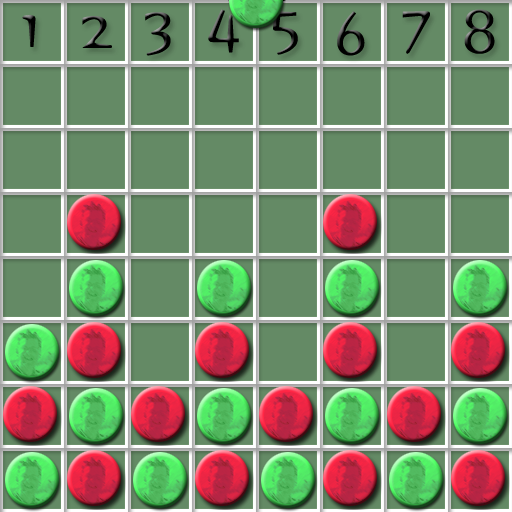
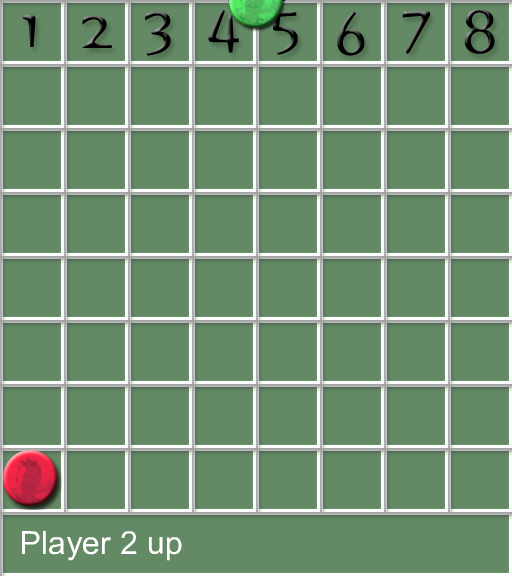
New load and draw

diff --git a/Commands/Bot_c4.js b/Commands/Bot_c4.js
@@ -8,6 +8,10 @@ var jimp = require('jimp');
 
 var obj = null;
 
+//Discord Client, for notifications.
+var disClient = null;
+var tstatus = '';
+  
 module.exports = {
     Bot_c4 : function(msg,args) {
         if (obj === null) obj =  new Connect4(msg,args);
@@ -15,6 +19,9 @@ module.exports = {
         },
     Info : function() {
         return "Connect 4 game";
+    },
+    Init : function(dClient) {
+        disClient =  dClient;
     }
     };
     
@@ -29,30 +36,43 @@ class Connect4 {
         this.args = args;
         this.board = null;
         this.ipath = "./Commands/Images/";
-        this.images = ['red.png', 'green.png', 'c4box.png', 'top.png'];
+        this.images = ['red.png', 'green.png', 'c4box.png', 'top.png', 'bot.png'];
         this.playing = false;
         this.gameOver = false;
         this.helpString = "Type: ```!c4 help``` for help";
         this.players = ['None','',''];
         this.player = 0;
+        this.loaded = false;
+        this.LoadResources();
         }
         
     MessageIn(msg,args) {
+        
+        if (!this.loaded) {
+            console.log('not ready');
+            return;
+        }
+        console.log('Players:' + this.players);
+        console.log('Player:' + this.player);
+        console.log('Playing:' + this.playing);
+        console.log('Finished:' + this.gameOver);
+                
+        
+        
         if (args.length === 0) {
             msg.reply(this.helpString);
             return;
         }
         var cmd = args[0].toLowerCase();
-        
         //End always works
         if (cmd === 'end') {
                 obj = null;
                 return;
             }
-            
          if (cmd === 'show') {
+                tstatus = this.GetNextUp();
+
                 this.DrawBoard();
-                ShowNextUp(msg);
                 return;
             }
         if (this.gameOver) {
@@ -60,6 +80,8 @@ class Connect4 {
             msg.reply("Game is over.  !C4 end to quit");
             return;
         }
+        
+  
         if (this.playing) {
             try {
                 var col = parseInt(cmd);
@@ -71,8 +93,16 @@ class Connect4 {
                 if ((col > 0) && (col <= 8)) {
                     console.log("drop: " + col);
                     this.DropToken(col-1);
-                    this.DrawBoard(msg);
-                    this.ShowNextUp(msg);
+                    if (this.GetWinner()) {
+                        console.log("Winner");
+                        this.gameOver = true;
+                        tstatus = this.GetNextUp();
+                        this.DrawBoard();
+                        return;
+                    }
+                    tstatus = this.GetNextUp();
+                    this.DrawBoard();
+                    //msg.channel.send(this.GetNextUp());
                 }
                 return;
             } catch (err) {
@@ -91,10 +121,20 @@ class Connect4 {
             return;
         }
     }
-    ShowNextUp(msg) {
+    
+    GetNextUp() {
         console.log("Show Next Up:" +this.players[this.player]);
-        if (this.players[this.player] !== '') {
-            msg.channel.send(this.players[this.player] + " up!");
+        try {
+            if (this.gameOver) {
+                return this.players[this.player] + " has won!";
+            }
+            if (this.players[this.player] !== '') {
+                return this.players[this.player] + " is up!";
+            }
+            return 'Player ' + this.player + ' up';
+        } catch (err) {
+            console.log(err);
+            return 'Unknown';
         }
     }
     
@@ -121,10 +161,6 @@ class Connect4 {
     DropToken(x) {
         //board is [x,y]
         var y;
-        
-        
-        
-        
         for (y = 7; y>=0;y--) {
             console.log("Spot " + y + '=' + this.board[x][y]);
             if (this.board[x][y] === 0) {
@@ -152,20 +188,20 @@ class Connect4 {
     
     
     StartGame() {
+        console.log("Starting Game");
         if (this.playing) {
             this.message.reply("Game in progress...");
             return;
         }
-        if (this.gameFinished) return;
+        //if (this.gameFinished) return;
         this.board = Array.from({ length: 8 }, () => Array.from({ length: 8 }, () => 0));
         var x,y;
         for (y = 0; y < 8; y++) 
             for (x = 0; x < 8; x++) this.board[x][y] = 0;
         this.player = 1;
         this.playing = true;
-        this.p1 = '';
-        this.p2 = '';
-        
+        this.players = ['None','',''];
+        tstatus = this.GetNextUp();
         this.DrawBoard();
     }
 
@@ -187,18 +223,25 @@ class Connect4 {
         return 0;
     }
     CountConseq(ix,iy,vx,vy) {
+        
         var last = 0;
         var cons = 0;
         var x = ix;
         var y = iy;
         var i = 0;
         for (i=0;i<8;i++) {
+            
             var test = this.GetBoardLimit(x,y);
-            if (test == last) {
-                if (test != 0) cons++;
-                if (cons >= 4) return test;
+            //console.log(x+" "+y+":" + test + " Last:" + last + " Count:" + cons);
+            
+            if (test === last) {
+                if (test !== 0) cons++;
+                if (cons >= 4) {
+                    console.log("Found a run of 4");
+                    return test;
+                    }
             } else {
-                cons = 0;
+                cons = 1;
                 last = test;
             }
             x+=vx;
@@ -207,6 +250,7 @@ class Connect4 {
         return 0;
     }
     GetWinner() {
+        
         var i;
         for (i=0;i<8;i++) {
             //From the top, look S
@@ -231,57 +275,90 @@ class Connect4 {
             //From the right, look NW
             var res = this.CountConseq(7,i,-1,-1);
             if (res !== 0) return res;
-            return 0;
+            
         }
+        return 0;
     }
    
-    DrawBoard() {
-        try {
-            
-         
-           
-            if (getRndInteger(0,4)>1) {
-                console.log("asdf");
-            }
-            var promises = [];
-            for (var i = 0; i < this.images.length; i++) promises.push(jimp.read(this.ipath+this.images[i]));
-            var bg = new jimp(512, 512, function (err, image) { });
-            
-            console.log('loaded');
-            
-            
-            Promise.all(promises).then(function(data) {return Promise.all(promises);})
-                                 .then(function(data) {
-                                     console.log('loaded');
-                var x,y;
-                
-                for (y = 0; y < 8; y++) { 
-                    for (x = 0; x < 8; x++) { 
-                        bg.blit(data[2],x*64,y*64);
-                        var tile = obj.board[x][y];
-                        if (tile===1) {
-                            bg.composite(data[0],x*64,y*64);
-                        }
-                        if (tile===2) {
-                            bg.composite(data[1],x*64,y*64);
-                        }
-                    }
-                    if (y===0) bg.composite(data[3],0,0);
-                }
-                if (obj.player === 1) bg.composite(data[0],256-32,-32);
-                if (obj.player === 2) bg.composite(data[1],256-32,-32);
-                console.log("wrote the image");
-                bg.write('test.png', function() {
-                console.log("wrote the image");
-                obj.message.channel.send({ file: 'test.png'});
-                
-                
-                });
+    LoadResources() {
+//        this.ipath = "./Commands/Images/";
+//        this.images = ['red.png', 'green.png', 'c4box.png', 'top.png', 'bot.png'];
+    
+    console.log("loading shit");
+    var file = this.ipath+"c4box.png";
+    console.log(file);
+    jimp.read(this.ipath+"c4box.png")
+        .then(function (image) {
+            obj.imBox = image;
+            console.log("Box Loaded");
+            return jimp.read(obj.ipath+"red.png");
+            })
+        .then(function (image) {
+            obj.imRed = image;
+            console.log("Red Loaded");
+            return jimp.read(obj.ipath+"green.png");
+            })
+        .then(function (image) {
+            obj.imGreen = image;
+            return jimp.read(obj.ipath+"top.png");
+            })
+        .then(function (image) {
+            obj.imTop = image;
+            return jimp.read(obj.ipath+"bot.png");
+            })
+        .then(function (image) {
+            obj.imBot = image;
+            return jimp.loadFont(jimp.FONT_SANS_32_WHITE);
+            })
+        .then(function (font) {
+            obj.imFont = font;
+            obj.loaded = true;
+            obj.imBg = new jimp(512, 576, function (err, image) { });
+            console.log("Shit actually loaded now.");                       
+            obj.StartGame();
             });
+    console.log("Shit loading commands complete");            
+    }
+    
+    DrawBoard() {
 
-        } catch (err) {
-            console.log("error");
+        //tstatus = status;
+
+        //setTimeout(myFunc, 1500, 'funky');
+
+        console.log('DrawBoard');
+        var x, y;
+        for (y = 0; y < 8; y++) {
+            for (x = 0; x < 8; x++) {
+                this.imBg.blit(this.imBox, x * 64, y * 64);
+        
+                var tile = obj.board[x][y];
+                if (tile === 1) {
+                    this.imBg.composite(this.imRed, x * 64, y * 64);
+        
+                }
+                if (tile === 2) {
+                    this.imBg.composite(this.imGreen, x * 64, y * 64);
+                }
+            }
+            if (y === 0) {
+                this.imBg.composite(this.imTop, 0, 0);
+            }
         }
+        if (!obj.gameFinished) {
+            if (obj.player === 1)
+                this.imBg.composite(this.imRed, 256 - 32, -32);
+            if (obj.player === 2)
+                this.imBg.composite(this.imGreen, 256 - 32, -32);
+        }
+        this.imBg.composite(this.imBot, 0, 512);
+        this.imBg.print(this.imFont, 20, 525, tstatus);
+        
+        console.log('DrawBoard: Printing done');
+        this.imBg.write('test.png',function () {
+                console.log('DrawBoard: test.png saved');
+                obj.message.channel.send({file: 'test.png'});
+            });
     }
 }
 

diff --git a/main.js b/main.js
@@ -1,5 +1,5 @@
-var auth = require('./auth.json');
 //var auth = require('./ponz.json');
+var auth = require('./auth.json');
 const Discord = require("discord.js");
 const client = new Discord.Client();
 var getJSON = require('get-json');
@@ -14,6 +14,7 @@ client.on("ready", () => {
 
 client.on("message", async message => {
     try {
+    //    console.log(message.content);
     if (message.content.startsWith(auth.Prefix)) {
         const args = message.content.trim().split(/ +/g);
         const command = args.shift().toLowerCase().slice(1,20);
